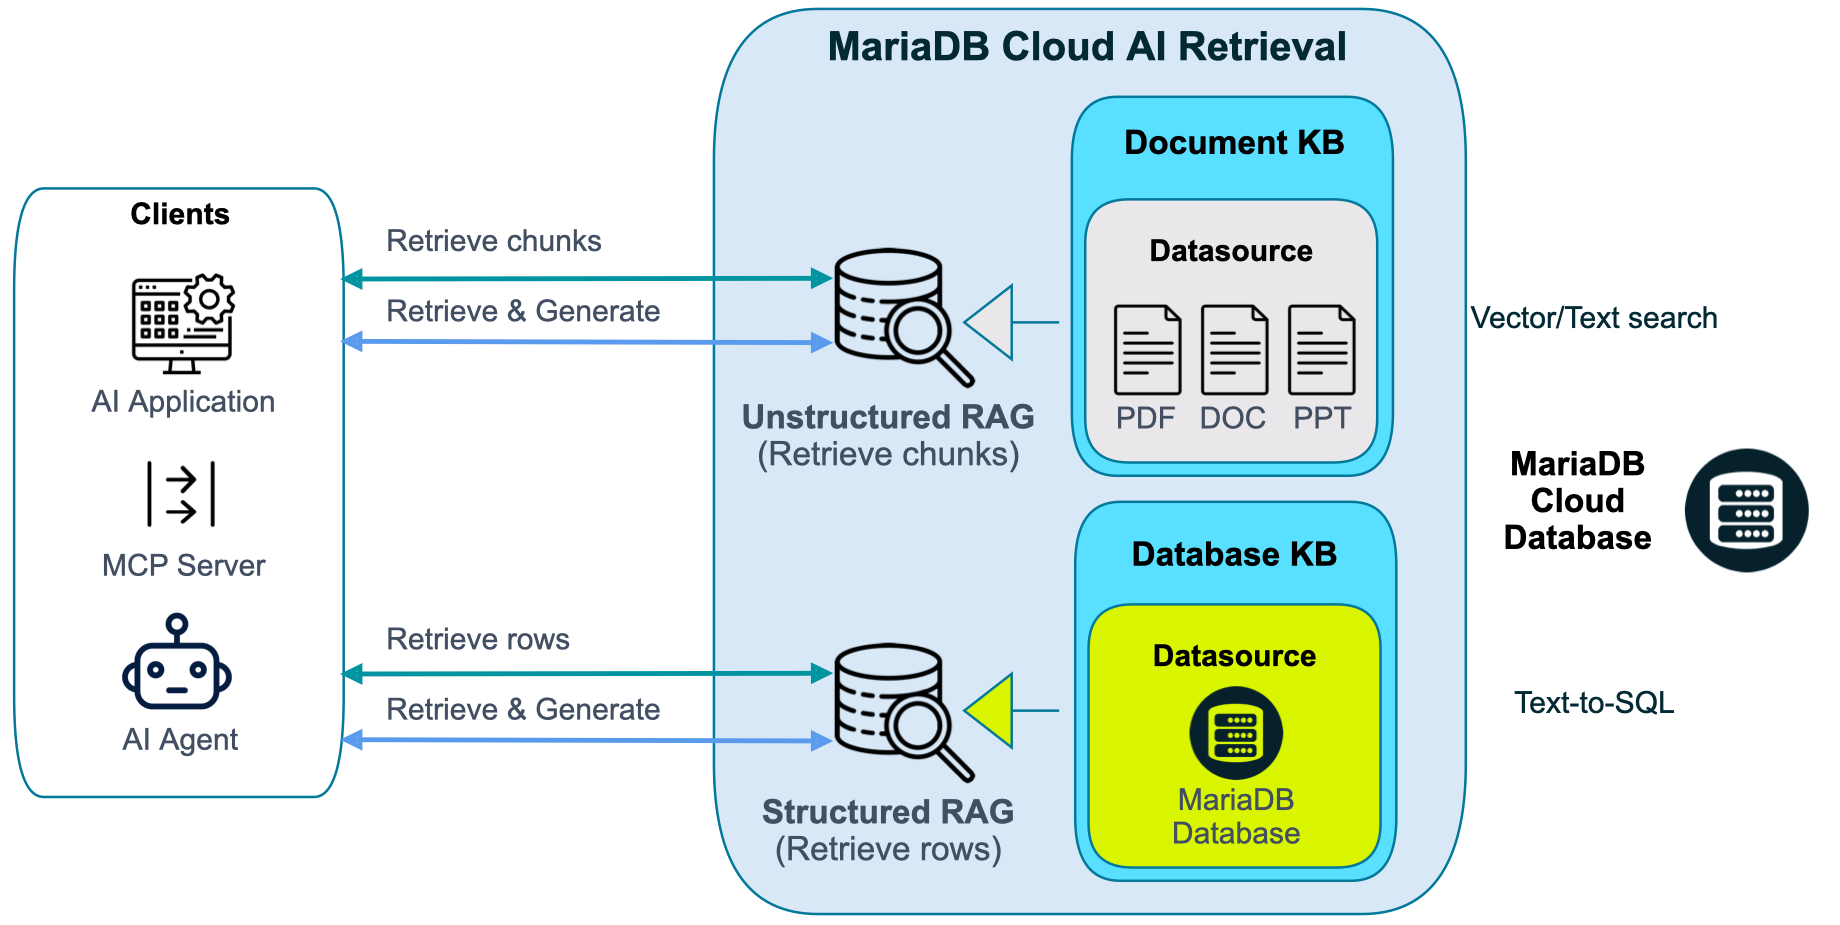
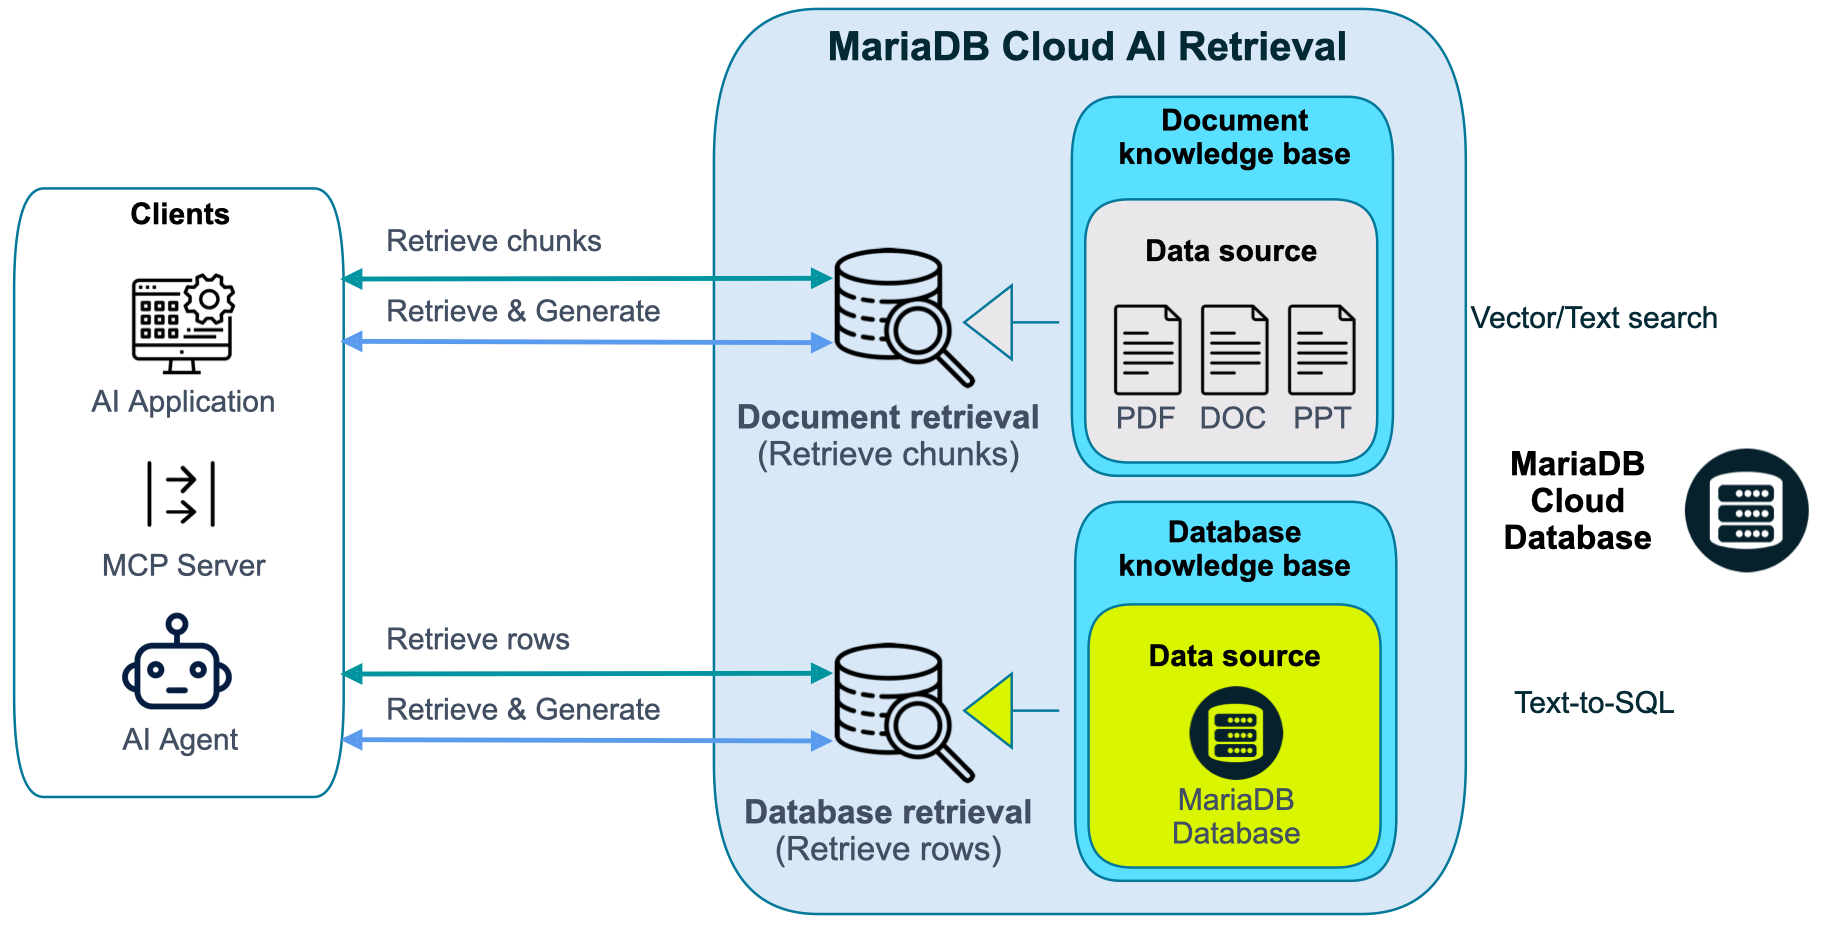
DOCS-6592 Use document and database knowledge base terms in the AI Retrieval diagrams
Reword the overview diagram from structured/unstructured RAG to the
docs terms, as Egor Ustinov asked, and add the document knowledge
base diagram from his training deck to the Document Knowledge Bases
page.

diff --git a/mariadb-cloud/cloud-ai/ai-retrieval/document-knowledge-bases.md b/mariadb-cloud/cloud-ai/ai-retrieval/document-knowledge-bases.md
@@ -12,6 +12,10 @@ icon: file-lines
 
 A document knowledge base indexes files so that applications can retrieve passages or generated answers from them. This page shows how to create one, add documents, test it, and call it from an application.
 
+<figure><img src="../../.gitbook/assets/ai-retrieval-document-kb-diagram.png" alt="Documents from object storage or a direct upload are processed in the region of the knowledge base, using a MariaDB-hosted parser and an embedding model, and stored as chunks and embeddings in your MariaDB Cloud database. Clients retrieve chunks or generated answers through hybrid search, with a MariaDB-hosted reranker and a generation model."><figcaption><p>How a document knowledge base ingests documents and answers requests.</p></figcaption></figure>
+
+<!-- Diagram: "Unstructured RAG: Diagram" slide of Egor Ustinov's "Copy of 03 - AI - Training" deck, chosen by him for this page (call of 2026-10-29). Labels reworded to the docs terms (no structured/unstructured RAG), title and logo cropped. -->
+
 ## Create a Knowledge Base
 
 1. In the MariaDB Cloud portal, select **AI Retrieval**.
